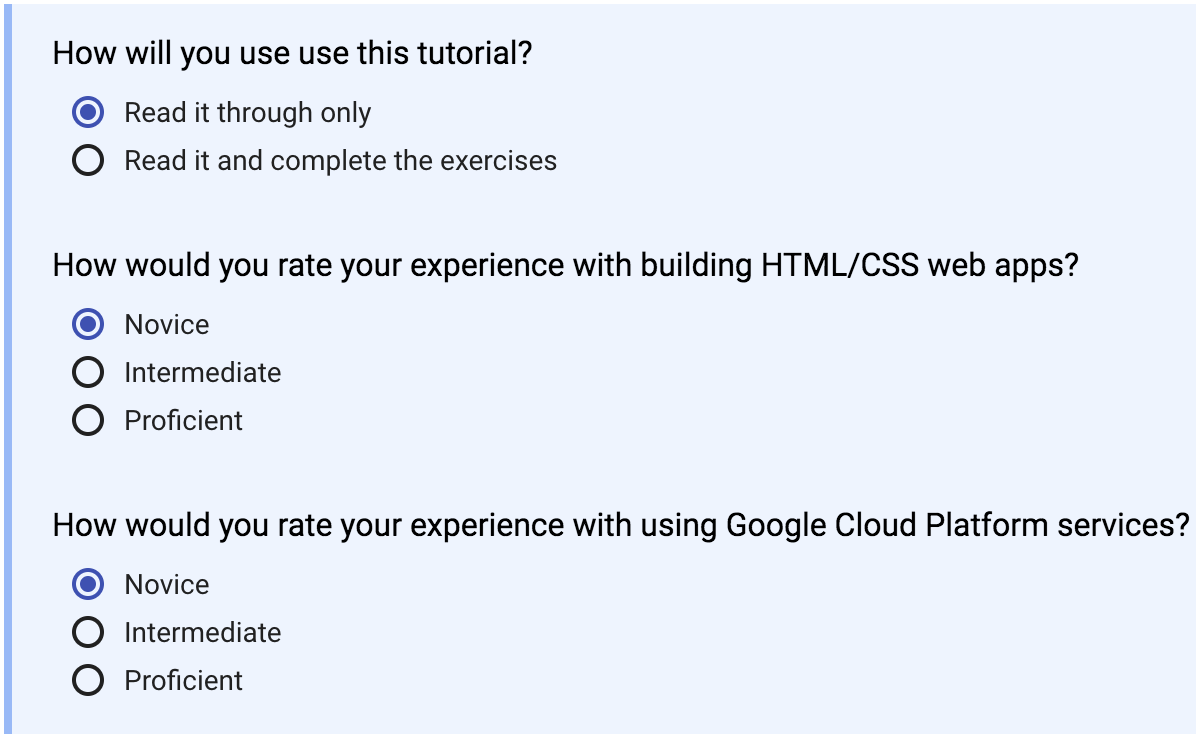
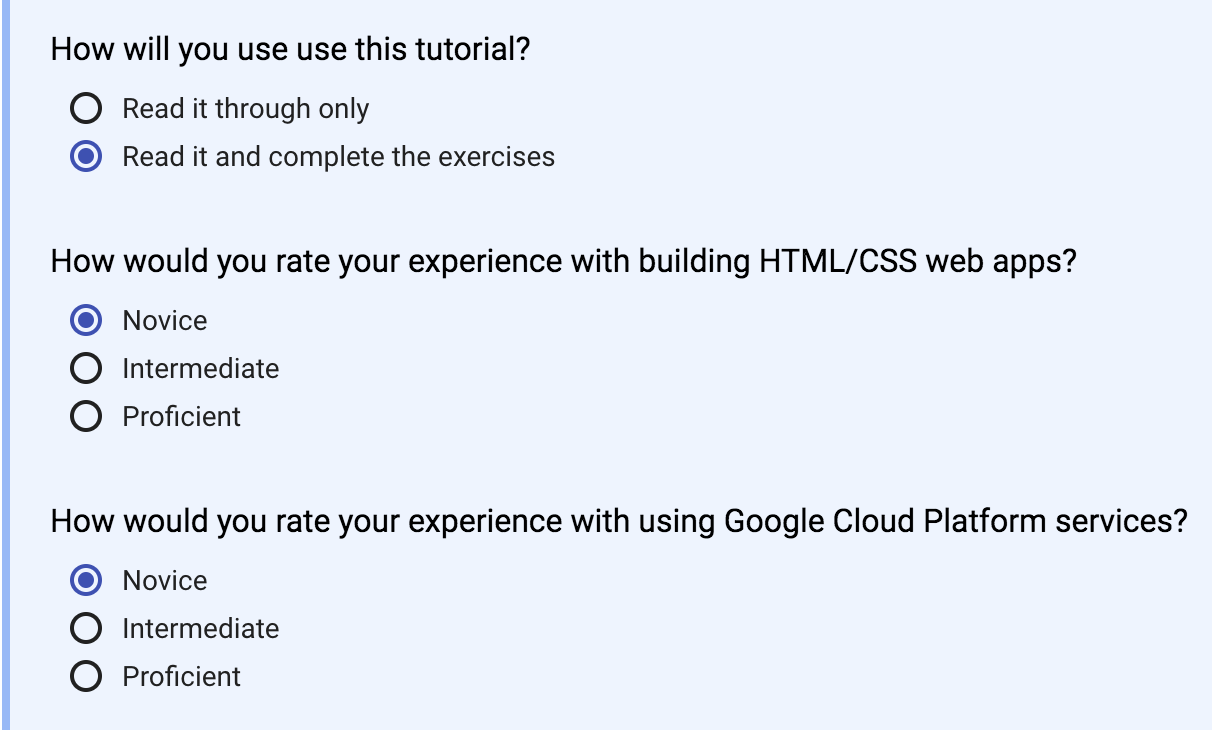
Update codelab settings info

diff --git a/README.md b/README.md
@@ -30,7 +30,9 @@ the search box:
 
 ![Activate Google Cloud Shell](./docs/img/ActiveGoogleCloudShell.png)
 
-I recommend working through all Google Codelabs with the following settings:
+I recommend working through all exercises in the Google Codelabs, and I suggest
+selecting Novice. Your settings for each codelab should look something like
+this:
 
 ![Google Codelab Settings](./docs/img/CodelabSettings.png)
 
